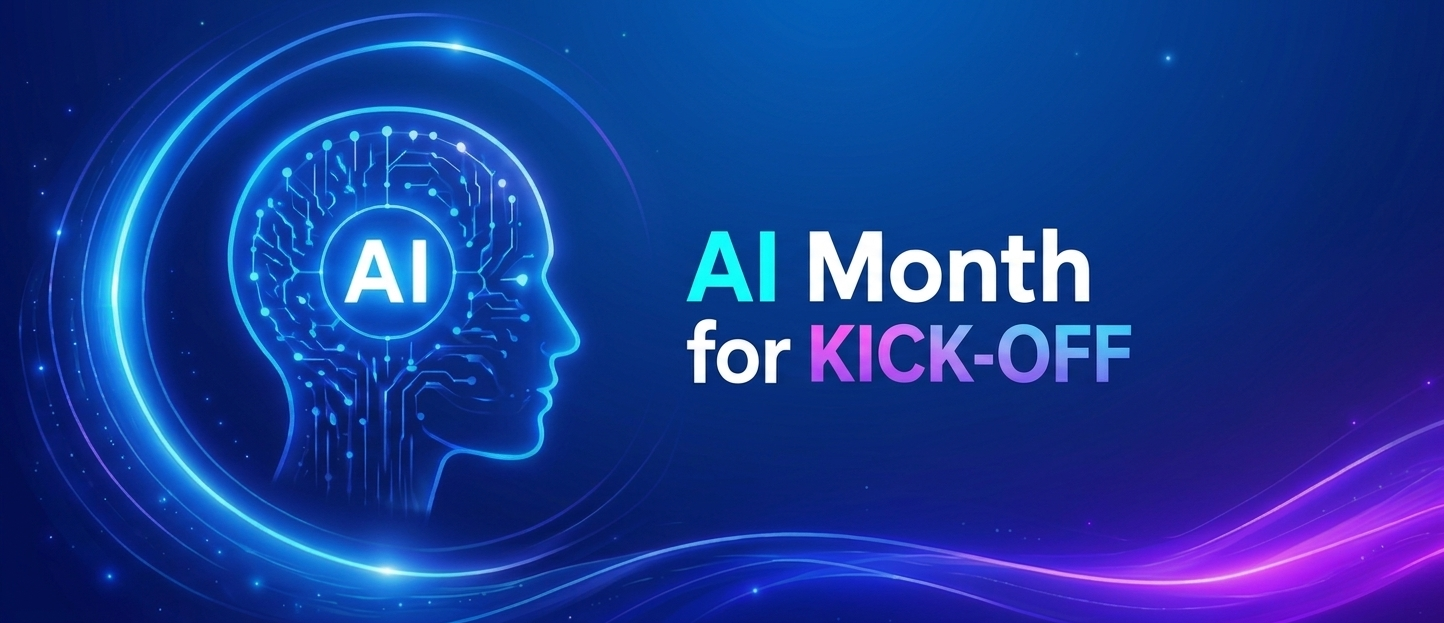
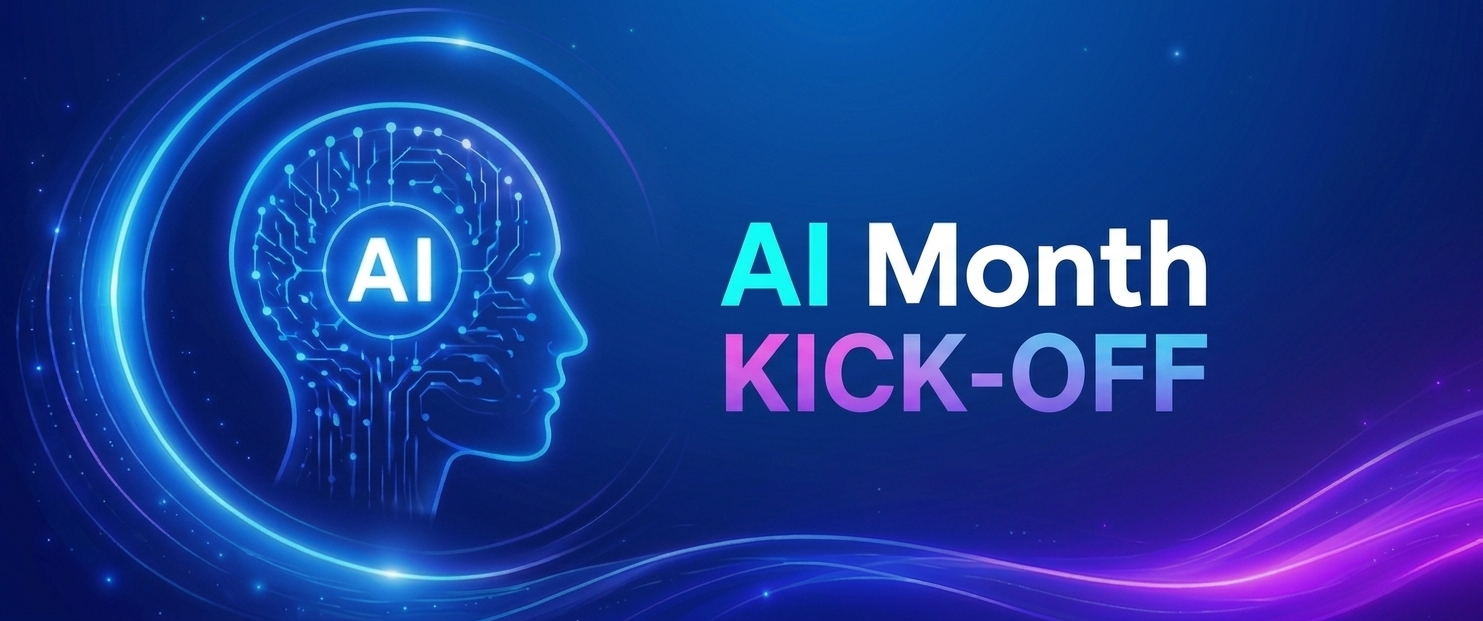
AI month kick off changes

diff --git a/index.html b/index.html
@@ -104,7 +104,9 @@
                         </div>
                     </div>
                     <div class="event-details">
-                        <h3>AI Month for KICK-OFF</h3>
+                        <h3>AI Month KICK-OFF</h3>
+                        <p>The official launch of AI Awareness Month — leadership unveils the vision, theme and roadmap for a month of AI-driven innovation across the organization.</p>
+                        <span class="event-tag">Kick-off</span>
                     </div>
                 </article>
 
@@ -112,7 +114,7 @@
                 <article class="event-card">
                     <div class="event-image" style="background: url('Workshop.png') center center / cover no-repeat;">
                         <div class="event-date">
-                            <span class="day">8–20</span>
+                            <span class="day">8–28</span>
                             <span class="month">JUL</span>
                         </div>
                     </div>
